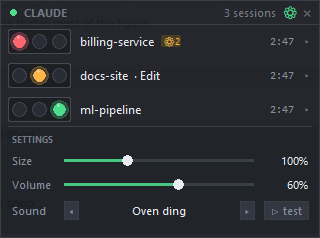
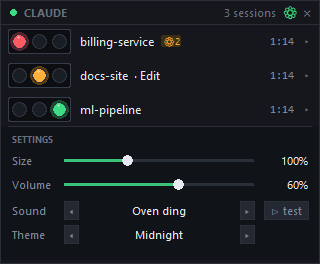
Refresh the README: current screenshots and corrected claims
The settings screenshots predated the Theme row, and two statements had
gone stale as features landed:

- "the browser panel cannot float above your windows" is no longer true;
  pop out does exactly that via Document Picture-in-Picture. Corrected to
  the limitation that actually remains - it cannot raise your editor.
- The host-requirements table credited always-on-top to the desktop panel
  alone.

Re-shot panel, settings and browser-settings with the Theme row present
and the window opaque, so desktop text no longer shows through. Added a
shot of the new minimised badge and a short explanation of it. Headline
now says amber rather than orange, matching the traffic-light wording.

All screenshots continue to use fabricated projects and paths.

diff --git a/README.md b/README.md
@@ -2,7 +2,7 @@
 
 A traffic light for every Claude Code session you have running.
 
-**Red** = working &nbsp;&middot;&nbsp; **Orange** = waiting on you &nbsp;&middot;&nbsp; **Green** = done
+**Red** = working &nbsp;&middot;&nbsp; **Amber** = waiting on you &nbsp;&middot;&nbsp; **Green** = done
 
 <img src="docs/panel.png" width="420" alt="The always-on-top panel: three traffic lights, one per session">
 
@@ -51,8 +51,9 @@ python install.py --remove     # unregisters the hooks and removes the payload
 
 ### Optional: the native panel
 
-The browser panel cannot float above your windows or raise your editor — no
-container can. If you have Python 3.8+ on the host, add:
+The browser panel floats fine via **pop out**, but it cannot raise your editor
+when you click a row — no container can reach your windows. If you have
+Python 3.8+ on the host, add:
 
 ```bash
 python run.py              # always-on-top widget, click-to-focus
@@ -67,14 +68,18 @@ Both panels show the same data and can run at the same time.
 
 | Host has                | You get                                            |
 | ----------------------- | -------------------------------------------------- |
-| Docker only             | Browser panel, lights, **full token data**          |
+| Docker only             | Browser panel, **full token data**, always-on-top pop out\*\* |
 | Docker + `curl`\*       | Same — the server reads the transcripts itself      |
 | Docker + Python         | All of the above, read host-side                    |
-| Docker + Python + tkinter | Always-on-top panel, click-to-focus, chimes       |
+| Docker + Python + tkinter | Desktop panel as well: click-to-focus, chimes, minimise badge |
 
 \* `curl` ships with Windows 10+, macOS and most Linux distributions. The
 generated hook launcher tries `py`, `python`, `python3`, then `curl`, and
 gives up silently rather than ever interfering with Claude.
+
+\*\* **pop out** uses Chrome's Document Picture-in-Picture for a genuinely
+always-on-top window. Other browsers fall back to a plain popup, which is still
+a small dedicated window but cannot float above other applications.
 
 ## How it works
 
@@ -141,6 +146,13 @@ registry cannot be read at all.
 | `×` in the header        | Minimise to a small badge                       |
 | Click the badge          | Restore the panel                               |
 | Right-click → Quit       | Actually close it (the server keeps running)    |
+
+<img src="docs/panel-badge.png" width="110" alt="The minimised badge: three tiny lamps and a session count">
+
+The `×` **minimises** rather than quits. The badge stays on top, lights
+whichever state most wants your attention, and shows how many sessions are
+running; clicking it brings the panel straight back. Quitting is on the
+right-click menu, so it takes a deliberate choice rather than one stray click.
 
 ### Alerts
 
